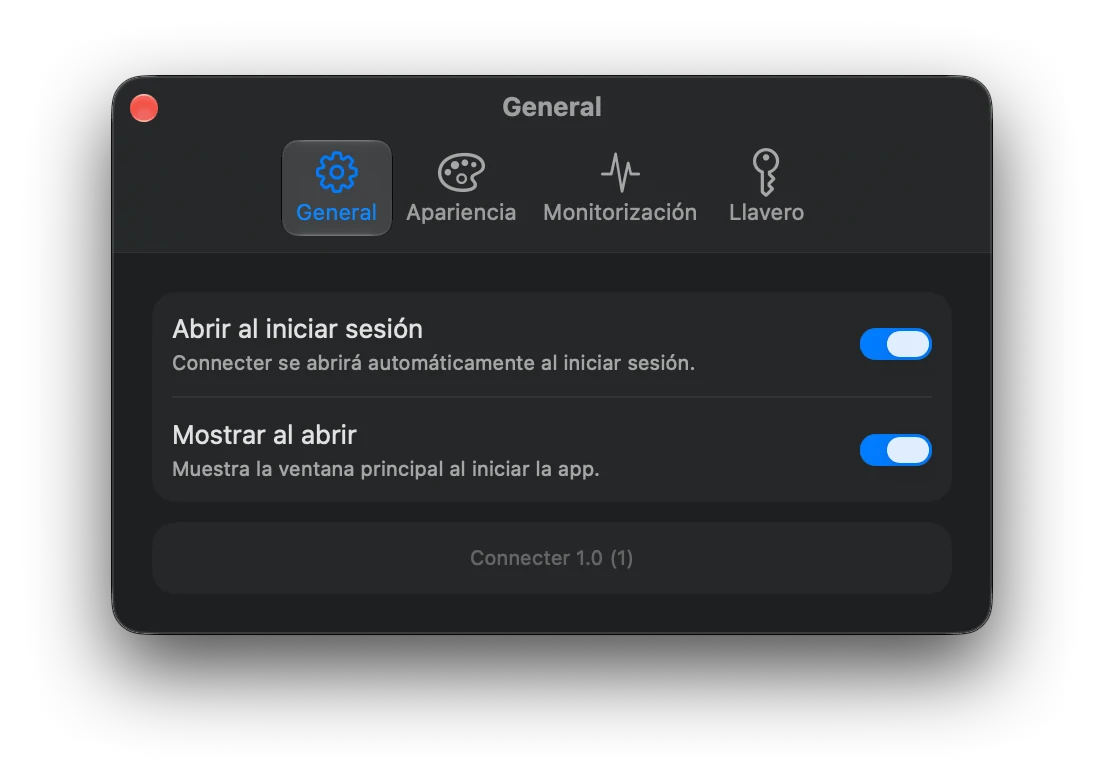
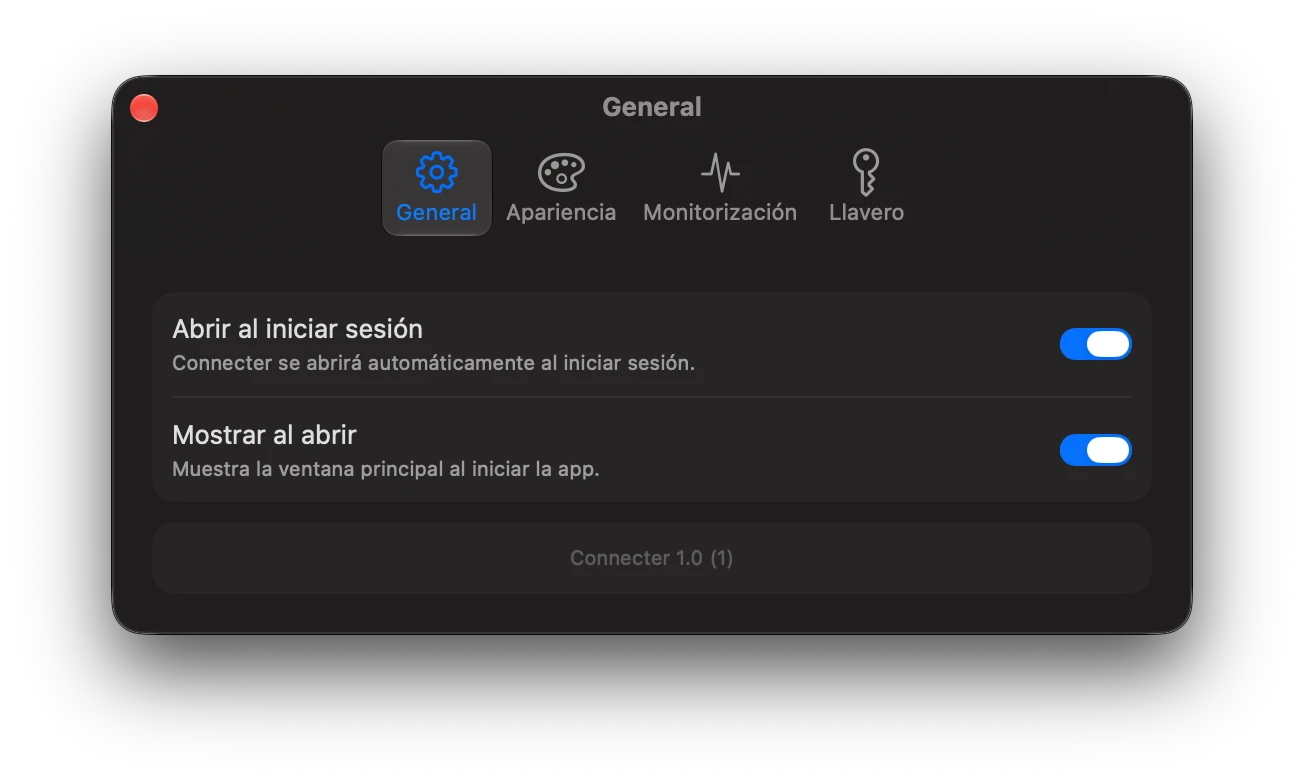
Connecter: capturas nuevas en claro y oscuro, en inglés y en español, y los ocho idiomas
- Capturas con datos inventados del nuevo diseño (agrupación por servidor,
  ajustes más anchos) en las dos páginas; la inglesa tiene las suyas.
- Selector Sistema · Claro · Oscuro que cambia todas las capturas; Sistema
  sigue el tema del navegador y la elección se recuerda.
- «8 idiomas» junto al requisito de macOS y una pregunta en el FAQ.

diff --git a/connecter/es/index.html b/connecter/es/index.html
@@ -248,14 +248,15 @@
     .rw-copy { text-align: center; max-width: 34em; }
     .rw-copy h2 { font-size: clamp(30px, 4.6vw, 48px); letter-spacing: -.025em; line-height: 1.1; margin: 0 0 10px; }
     .rw-copy p { color: var(--muted); font-size: clamp(16px, 1.8vw, 19px); margin: 0; }
-    .rw-frame { position: relative; width: min(420px, 76vw, calc((100svh - 260px) * 552 / 783)); transform-origin: 50% 100%; will-change: transform; }
+    .rw-frame { position: relative; width: min(420px, 76vw, calc((100svh - 260px) * 552 / 687)); transform-origin: 50% 100%; will-change: transform; }
     .rw-frame > img:first-child { display: block; width: 100%; height: auto; }
     .rw-menu {
-      position: absolute; top: 6%; right: -40%; width: 46%; height: auto;
+      /* --mw: the menu's width in points; drawn at the window's scale (552 points wide), sticking out on the right */
+      position: absolute; top: 6%; right: calc(12% - var(--mw) / 552 * 100%); width: calc(var(--mw) / 552 * 100%); height: auto;
       border-radius: 13px; box-shadow: 0 24px 50px rgba(0, 0, 0, .35);
       will-change: transform;
     }
-    @media (max-width: 760px) { .rw-menu { right: -10%; top: 34%; width: 42%; } }
+    @media (max-width: 760px) { .rw-menu { right: -10%; top: 30%; width: calc(var(--mw) / 552 * 92%); } }
 
     /* ---------- Contenido ---------- */
     .section { padding: 88px 0; border-top: 1px solid var(--border); }
@@ -277,9 +278,17 @@
       display: grid; place-items: center;
       background: linear-gradient(135deg, var(--accent), var(--accent-2)); color: #fff; font-weight: 700; font-size: 14px;
     }
+    /* Light / dark screenshots; only with JavaScript, which swaps them */
+    .scheme { display: none; padding: 3px; gap: 2px; border: 1px solid var(--border); border-radius: 999px; background: var(--surface); }
+    .js .scheme { display: inline-flex; }
+    .rw-copy .scheme { margin-top: 18px; }
+    .section .scheme { margin: -16px 0 32px; }
+    .scheme button { font: inherit; font-size: 14px; color: var(--muted); background: none; border: 0; border-radius: 999px; padding: 6px 14px; cursor: pointer; }
+    .scheme button[aria-checked="true"] { background: var(--accent); color: #fff; }
+    .scheme button:focus-visible { outline: 2px solid var(--accent); outline-offset: 2px; }
     .shots { display: grid; grid-template-columns: repeat(2, 1fr); gap: 28px 32px; align-items: center; }
     .shots figure { margin: 0; min-width: 0; }
-    .shots .wide { grid-column: 1 / -1; max-width: 560px; margin: 0 auto; }
+    .shots .wide { grid-column: 1 / -1; max-width: 660px; margin: 0 auto; }
     .shots img { display: block; width: 100%; height: auto; }
     .shots figcaption { color: var(--muted); font-size: 15px; margin-top: 4px; text-align: center; padding: 0 8px; }
     @media (max-width: 760px) { .shots { grid-template-columns: 1fr; max-width: 480px; margin: 0 auto; } }
@@ -360,7 +369,7 @@
         <span class="btn btn-primary">Próximamente en el Mac App Store</span>
         <a class="btn btn-ghost" href="#features">Ver funciones</a>
       </div>
-      <p class="req">Requiere macOS 26 Tahoe o posterior</p>
+      <p class="req">Requiere macOS 26 Tahoe o posterior · 8 idiomas</p>
     </div>
 
     <div class="stage" id="stage" role="img" aria-label="Animación: Connecter monta el recurso «video» desde la barra de menús y macOS lo muestra en el escritorio.">
@@ -417,11 +426,12 @@
     <div class="sticky">
       <div class="rw-copy" id="rwCopy">
         <h2>Todos tus recursos, de un vistazo.</h2>
-        <p>Una ventana compacta te dice qué está montado y qué no. Un interruptor activa o desactiva cada recurso.</p>
+        <p>Una ventana compacta, agrupada por servidor, te dice qué está montado y qué no. Un interruptor activa o desactiva cada recurso, y puedes pausar un servidor entero.</p>
+        <div class="scheme" role="radiogroup" aria-label="Apariencia de la app en las capturas"><button type="button" role="radio" data-mode="system" aria-checked="true">Sistema</button><button type="button" role="radio" data-mode="light" aria-checked="false">Claro</button><button type="button" role="radio" data-mode="dark" aria-checked="false">Oscuro</button></div>
       </div>
       <div class="rw-frame" id="rwFrame">
-        <img src="../img/ventana.webp" width="552" height="783" alt="Ventana principal de Connecter con nueve recursos SMB, dos de ellos montados">
-        <img class="rw-menu" id="rwMenu" src="../img/menu.webp" width="186" height="334" alt="Menú de Connecter en la barra de menús: 2 de 2 montados, con un punto verde junto a cada recurso montado">
+        <img src="../img/ventana.webp" width="552" height="687" alt="Ventana principal de Connecter con ocho recursos SMB agrupados por servidor: tres montados, dos en un servidor no disponible y uno en un servidor en pausa" data-scheme>
+        <img class="rw-menu" id="rwMenu" src="../img/menu.webp" width="330" height="471" style="--mw: 330" alt="Menú de Connecter en la barra de menús: 3 de 5 montados, una sección por servidor y un punto verde junto a cada recurso montado" data-scheme>
       </div>
     </div>
   </section>
@@ -443,17 +453,18 @@
     <section class="section" id="screenshots">
       <h2 class="rv">Así se ve en tu Mac.</h2>
       <p class="lead rv">Nativa de macOS Tahoe. Todo se ajusta desde una ventana de ajustes sencilla.</p>
+      <div class="scheme" role="radiogroup" aria-label="Apariencia de la app en las capturas"><button type="button" role="radio" data-mode="system" aria-checked="true">Sistema</button><button type="button" role="radio" data-mode="light" aria-checked="false">Claro</button><button type="button" role="radio" data-mode="dark" aria-checked="false">Oscuro</button></div>
       <div class="shots">
         <figure class="rv" style="--i:0">
-          <img src="../img/ajustes-general.webp" width="552" height="391" loading="lazy" alt="Ajustes generales: abrir al iniciar sesión y mostrar al abrir">
+          <img src="../img/ajustes-general.webp" width="652" height="391" loading="lazy" alt="Ajustes generales: abrir al iniciar sesión y mostrar al abrir" data-scheme>
           <figcaption>Se abre sola al iniciar sesión y puede quedarse solo en la barra de menús.</figcaption>
         </figure>
         <figure class="rv" style="--i:1">
-          <img src="../img/ajustes-monitorizacion.webp" width="552" height="415" loading="lazy" alt="Ajustes de monitorización: intervalo de comprobación, desactivación tras fallos y notificaciones">
+          <img src="../img/ajustes-monitorizacion.webp" width="652" height="382" loading="lazy" alt="Ajustes de monitorización: intervalo de comprobación, desactivación tras fallos y notificaciones" data-scheme>
           <figcaption>Tú decides cada cuánto comprueba, cuándo desiste y si te avisa.</figcaption>
         </figure>
         <figure class="wide rv">
-          <img src="../img/llavero.webp" width="552" height="581" loading="lazy" alt="Ajustes del Llavero: lista de recursos guardados en el llavero de macOS">
+          <img src="../img/llavero.webp" width="652" height="568" loading="lazy" alt="Ajustes del Llavero: lista de recursos guardados en el llavero de macOS" data-scheme>
           <figcaption>Cada recurso queda guardado en el Llavero, así que puedes reconstruir la lista si la pierdes.</figcaption>
         </figure>
       </div>
@@ -490,6 +501,7 @@
       <p class="lead rv">Lo que suele preguntarse antes de instalarla.</p>
       <details class="rv"><summary>¿Qué tipo de carpetas compartidas admite?</summary><p>Carpetas compartidas por SMB, el protocolo que usan la mayoría de NAS (Synology, QNAP…), servidores Windows y otros Mac.</p></details>
       <details class="rv"><summary>¿Qué versión de macOS necesito?</summary><p>macOS 26 Tahoe o posterior.</p></details>
+      <details class="rv"><summary>¿En qué idiomas está?</summary><p>Español, inglés, alemán, francés, italiano, portugués de Brasil, japonés y chino simplificado. Connecter usa el idioma de tu Mac.</p></details>
       <details class="rv"><summary>¿Qué pasa si cierro la tapa o cambio de Wi‑Fi?</summary><p>Al despertar el Mac o al detectar un cambio de red, Connecter vuelve a montar tus carpetas automáticamente. Si no hay conexión, pausa los intentos hasta que vuelva.</p></details>
       <details class="rv"><summary>¿Dónde se guardan mis contraseñas?</summary><p>Únicamente en el Llavero de macOS, el mismo sistema que usa el propio sistema operativo para tus contraseñas.</p></details>
       <details class="rv"><summary>¿Cuándo estará disponible?</summary><p>Connecter llegará próximamente al Mac App Store. Esta página se actualizará con el enlace de descarga.</p></details>
@@ -615,6 +627,26 @@
       if (!ticking) { ticking = true; requestAnimationFrame(() => { onScroll(); ticking = false; }); }
     }, { passive: true });
     addEventListener('resize', () => { fit(); onScroll(); });
+    // Screenshots in light or dark: "System" follows the visitor's appearance; the dark
+    // image is in the markup and the light one sits next to it as <name>-light.webp
+    const shots = [...document.querySelectorAll('img[data-scheme]')];
+    shots.forEach((i) => { i.dataset.dark = i.getAttribute('src'); });
+    const sysDark = matchMedia('(prefers-color-scheme: dark)');
+    let scheme = 'system';
+    try { scheme = localStorage.getItem('connecter-scheme') || 'system'; } catch (e) {}
+    const applyScheme = () => {
+      const dark = scheme === 'dark' || (scheme === 'system' && sysDark.matches);
+      shots.forEach((i) => { i.src = dark ? i.dataset.dark : i.dataset.dark.replace('.webp', '-light.webp'); });
+      document.querySelectorAll('.scheme button').forEach((b) => b.setAttribute('aria-checked', String(b.dataset.mode === scheme)));
+    };
+    document.querySelectorAll('.scheme button').forEach((b) => b.addEventListener('click', () => {
+      scheme = b.dataset.mode;
+      try { localStorage.setItem('connecter-scheme', scheme); } catch (e) {}
+      applyScheme();
+    }));
+    sysDark.addEventListener('change', applyScheme);
+    applyScheme();
+
     fit(); placeMenu(); onScroll();
     if (reduce) finalState(); else loop();
   })();

diff --git a/connecter/index.html b/connecter/index.html
@@ -248,14 +248,15 @@
     .rw-copy { text-align: center; max-width: 34em; }
     .rw-copy h2 { font-size: clamp(30px, 4.6vw, 48px); letter-spacing: -.025em; line-height: 1.1; margin: 0 0 10px; }
     .rw-copy p { color: var(--muted); font-size: clamp(16px, 1.8vw, 19px); margin: 0; }
-    .rw-frame { position: relative; width: min(420px, 76vw, calc((100svh - 260px) * 552 / 783)); transform-origin: 50% 100%; will-change: transform; }
+    .rw-frame { position: relative; width: min(420px, 76vw, calc((100svh - 260px) * 552 / 687)); transform-origin: 50% 100%; will-change: transform; }
     .rw-frame > img:first-child { display: block; width: 100%; height: auto; }
     .rw-menu {
-      position: absolute; top: 6%; right: -40%; width: 46%; height: auto;
+      /* --mw: the menu's width in points; drawn at the window's scale (552 points wide), sticking out on the right */
+      position: absolute; top: 6%; right: calc(12% - var(--mw) / 552 * 100%); width: calc(var(--mw) / 552 * 100%); height: auto;
       border-radius: 13px; box-shadow: 0 24px 50px rgba(0, 0, 0, .35);
       will-change: transform;
     }
-    @media (max-width: 760px) { .rw-menu { right: -10%; top: 34%; width: 42%; } }
+    @media (max-width: 760px) { .rw-menu { right: -10%; top: 30%; width: calc(var(--mw) / 552 * 92%); } }
 
     /* ---------- Contenido ---------- */
     .section { padding: 88px 0; border-top: 1px solid var(--border); }
@@ -277,9 +278,17 @@
       display: grid; place-items: center;
       background: linear-gradient(135deg, var(--accent), var(--accent-2)); color: #fff; font-weight: 700; font-size: 14px;
     }
+    /* Light / dark screenshots; only with JavaScript, which swaps them */
+    .scheme { display: none; padding: 3px; gap: 2px; border: 1px solid var(--border); border-radius: 999px; background: var(--surface); }
+    .js .scheme { display: inline-flex; }
+    .rw-copy .scheme { margin-top: 18px; }
+    .section .scheme { margin: -16px 0 32px; }
+    .scheme button { font: inherit; font-size: 14px; color: var(--muted); background: none; border: 0; border-radius: 999px; padding: 6px 14px; cursor: pointer; }
+    .scheme button[aria-checked="true"] { background: var(--accent); color: #fff; }
+    .scheme button:focus-visible { outline: 2px solid var(--accent); outline-offset: 2px; }
     .shots { display: grid; grid-template-columns: repeat(2, 1fr); gap: 28px 32px; align-items: center; }
     .shots figure { margin: 0; min-width: 0; }
-    .shots .wide { grid-column: 1 / -1; max-width: 560px; margin: 0 auto; }
+    .shots .wide { grid-column: 1 / -1; max-width: 660px; margin: 0 auto; }
     .shots img { display: block; width: 100%; height: auto; }
     .shots figcaption { color: var(--muted); font-size: 15px; margin-top: 4px; text-align: center; padding: 0 8px; }
     @media (max-width: 760px) { .shots { grid-template-columns: 1fr; max-width: 480px; margin: 0 auto; } }
@@ -360,7 +369,7 @@
         <span class="btn btn-primary">Coming soon to the Mac App Store</span>
         <a class="btn btn-ghost" href="#features">See features</a>
       </div>
-      <p class="req">Requires macOS 26 Tahoe or later</p>
+      <p class="req">Requires macOS 26 Tahoe or later · 8 languages</p>
     </div>
 
     <div class="stage" id="stage" role="img" aria-label="Animation: Connecter mounts the “video” share from the menu bar and macOS shows it on the desktop.">
@@ -417,11 +426,12 @@
     <div class="sticky">
       <div class="rw-copy" id="rwCopy">
         <h2>Every share, at a glance.</h2>
-        <p>One compact window shows what is mounted and what is not. One switch turns each share on or off.</p>
+        <p>One compact window, grouped by server, shows what is mounted and what is not. One switch turns each share on or off, and you can pause a whole server.</p>
+        <div class="scheme" role="radiogroup" aria-label="App appearance in the screenshots"><button type="button" role="radio" data-mode="system" aria-checked="true">System</button><button type="button" role="radio" data-mode="light" aria-checked="false">Light</button><button type="button" role="radio" data-mode="dark" aria-checked="false">Dark</button></div>
       </div>
       <div class="rw-frame" id="rwFrame">
-        <img src="img/ventana.webp" width="552" height="783" alt="Connecter main window with nine SMB shares, two of them mounted">
-        <img class="rw-menu" id="rwMenu" src="img/menu.webp" width="186" height="334" alt="Connecter menu in the menu bar: 2 of 2 mounted, with a green dot next to each mounted share">
+        <img src="img/window.webp" width="552" height="687" alt="Connecter main window with eight SMB shares grouped by server: three mounted, two on an unreachable server and one on a paused server" data-scheme>
+        <img class="rw-menu" id="rwMenu" src="img/menu-en.webp" width="304" height="471" style="--mw: 304" alt="Connecter menu in the menu bar: 3 of 5 mounted, one section per server and a green dot next to each mounted share" data-scheme>
       </div>
     </div>
   </section>
@@ -443,17 +453,18 @@
     <section class="section" id="screenshots">
       <h2 class="rv">Right at home on your Mac.</h2>
       <p class="lead rv">Native to macOS Tahoe. Everything is configured from one simple settings window.</p>
+      <div class="scheme" role="radiogroup" aria-label="App appearance in the screenshots"><button type="button" role="radio" data-mode="system" aria-checked="true">System</button><button type="button" role="radio" data-mode="light" aria-checked="false">Light</button><button type="button" role="radio" data-mode="dark" aria-checked="false">Dark</button></div>
       <div class="shots">
         <figure class="rv" style="--i:0">
-          <img src="img/ajustes-general.webp" width="552" height="391" loading="lazy" alt="General settings: launch at login and show on launch">
+          <img src="img/settings-general.webp" width="652" height="391" loading="lazy" alt="General settings: launch at login and show on launch" data-scheme>
           <figcaption>It starts at login and can stay out of the way in the menu bar.</figcaption>
         </figure>
         <figure class="rv" style="--i:1">
-          <img src="img/ajustes-monitorizacion.webp" width="552" height="415" loading="lazy" alt="Monitoring settings: check interval, disable after failures, and notifications">
+          <img src="img/settings-monitoring.webp" width="652" height="382" loading="lazy" alt="Monitoring settings: check interval, disable after failures, and notifications" data-scheme>
           <figcaption>You decide how often it checks, when it gives up and whether it notifies you.</figcaption>
         </figure>
         <figure class="wide rv">
-          <img src="img/llavero.webp" width="552" height="581" loading="lazy" alt="Keychain settings: list of shares saved in the macOS Keychain">
+          <img src="img/keychain.webp" width="652" height="568" loading="lazy" alt="Keychain settings: list of shares saved in the macOS Keychain" data-scheme>
           <figcaption>Every share is backed up in the Keychain, so you can rebuild the list if you ever lose it.</figcaption>
         </figure>
       </div>
@@ -490,6 +501,7 @@
       <p class="lead rv">What people usually ask before installing it.</p>
       <details class="rv"><summary>What kind of shares does it support?</summary><p>Shares over SMB, the protocol used by most NAS devices (Synology, QNAP…), Windows servers and other Macs.</p></details>
       <details class="rv"><summary>Which version of macOS do I need?</summary><p>macOS 26 Tahoe or later.</p></details>
+      <details class="rv"><summary>Which languages is it available in?</summary><p>English, Spanish, German, French, Italian, Brazilian Portuguese, Japanese and Simplified Chinese. Connecter uses your Mac’s language.</p></details>
       <details class="rv"><summary>What happens if I close the lid or switch Wi‑Fi networks?</summary><p>When your Mac wakes up or the network changes, Connecter mounts your shares again automatically. If there’s no connection, it pauses until the network comes back.</p></details>
       <details class="rv"><summary>Where are my passwords stored?</summary><p>Only in the macOS Keychain, the same system macOS itself uses for your passwords.</p></details>
       <details class="rv"><summary>When will it be available?</summary><p>Connecter is coming soon to the Mac App Store. This page will be updated with the download link.</p></details>
@@ -615,6 +627,26 @@
       if (!ticking) { ticking = true; requestAnimationFrame(() => { onScroll(); ticking = false; }); }
     }, { passive: true });
     addEventListener('resize', () => { fit(); onScroll(); });
+    // Screenshots in light or dark: "System" follows the visitor's appearance; the dark
+    // image is in the markup and the light one sits next to it as <name>-light.webp
+    const shots = [...document.querySelectorAll('img[data-scheme]')];
+    shots.forEach((i) => { i.dataset.dark = i.getAttribute('src'); });
+    const sysDark = matchMedia('(prefers-color-scheme: dark)');
+    let scheme = 'system';
+    try { scheme = localStorage.getItem('connecter-scheme') || 'system'; } catch (e) {}
+    const applyScheme = () => {
+      const dark = scheme === 'dark' || (scheme === 'system' && sysDark.matches);
+      shots.forEach((i) => { i.src = dark ? i.dataset.dark : i.dataset.dark.replace('.webp', '-light.webp'); });
+      document.querySelectorAll('.scheme button').forEach((b) => b.setAttribute('aria-checked', String(b.dataset.mode === scheme)));
+    };
+    document.querySelectorAll('.scheme button').forEach((b) => b.addEventListener('click', () => {
+      scheme = b.dataset.mode;
+      try { localStorage.setItem('connecter-scheme', scheme); } catch (e) {}
+      applyScheme();
+    }));
+    sysDark.addEventListener('change', applyScheme);
+    applyScheme();
+
     fit(); placeMenu(); onScroll();
     if (reduce) finalState(); else loop();
   })();

diff --git a/tools/connecter/template.html b/tools/connecter/template.html
@@ -248,14 +248,15 @@
     .rw-copy { text-align: center; max-width: 34em; }
     .rw-copy h2 { font-size: clamp(30px, 4.6vw, 48px); letter-spacing: -.025em; line-height: 1.1; margin: 0 0 10px; }
     .rw-copy p { color: var(--muted); font-size: clamp(16px, 1.8vw, 19px); margin: 0; }
-    .rw-frame { position: relative; width: min(420px, 76vw, calc((100svh - 260px) * 552 / 783)); transform-origin: 50% 100%; will-change: transform; }
+    .rw-frame { position: relative; width: min(420px, 76vw, calc((100svh - 260px) * 552 / 687)); transform-origin: 50% 100%; will-change: transform; }
     .rw-frame > img:first-child { display: block; width: 100%; height: auto; }
     .rw-menu {
-      position: absolute; top: 6%; right: -40%; width: 46%; height: auto;
+      /* --mw: the menu's width in points; drawn at the window's scale (552 points wide), sticking out on the right */
+      position: absolute; top: 6%; right: calc(12% - var(--mw) / 552 * 100%); width: calc(var(--mw) / 552 * 100%); height: auto;
       border-radius: 13px; box-shadow: 0 24px 50px rgba(0, 0, 0, .35);
       will-change: transform;
     }
-    @media (max-width: 760px) { .rw-menu { right: -10%; top: 34%; width: 42%; } }
+    @media (max-width: 760px) { .rw-menu { right: -10%; top: 30%; width: calc(var(--mw) / 552 * 92%); } }
 
     /* ---------- Contenido ---------- */
     .section { padding: 88px 0; border-top: 1px solid var(--border); }
@@ -277,9 +278,17 @@
       display: grid; place-items: center;
       background: linear-gradient(135deg, var(--accent), var(--accent-2)); color: #fff; font-weight: 700; font-size: 14px;
     }
+    /* Light / dark screenshots; only with JavaScript, which swaps them */
+    .scheme { display: none; padding: 3px; gap: 2px; border: 1px solid var(--border); border-radius: 999px; background: var(--surface); }
+    .js .scheme { display: inline-flex; }
+    .rw-copy .scheme { margin-top: 18px; }
+    .section .scheme { margin: -16px 0 32px; }
+    .scheme button { font: inherit; font-size: 14px; color: var(--muted); background: none; border: 0; border-radius: 999px; padding: 6px 14px; cursor: pointer; }
+    .scheme button[aria-checked="true"] { background: var(--accent); color: #fff; }
+    .scheme button:focus-visible { outline: 2px solid var(--accent); outline-offset: 2px; }
     .shots { display: grid; grid-template-columns: repeat(2, 1fr); gap: 28px 32px; align-items: center; }
     .shots figure { margin: 0; min-width: 0; }
-    .shots .wide { grid-column: 1 / -1; max-width: 560px; margin: 0 auto; }
+    .shots .wide { grid-column: 1 / -1; max-width: 660px; margin: 0 auto; }
     .shots img { display: block; width: 100%; height: auto; }
     .shots figcaption { color: var(--muted); font-size: 15px; margin-top: 4px; text-align: center; padding: 0 8px; }
     @media (max-width: 760px) { .shots { grid-template-columns: 1fr; max-width: 480px; margin: 0 auto; } }
@@ -418,10 +427,11 @@
       <div class="rw-copy" id="rwCopy">
         <h2>{{win_h2}}</h2>
         <p>{{win_p}}</p>
+        {{scheme}}
       </div>
       <div class="rw-frame" id="rwFrame">
-        <img src="{{root}}img/ventana.webp" width="552" height="783" alt="{{win_alt}}">
-        <img class="rw-menu" id="rwMenu" src="{{root}}img/menu.webp" width="186" height="334" alt="{{menu_alt}}">
+        <img src="{{root}}img/{{img_win}}.webp" width="552" height="687" alt="{{win_alt}}" data-scheme>
+        <img class="rw-menu" id="rwMenu" src="{{root}}img/{{img_menu}}.webp" width="{{menu_w}}" height="471" style="--mw: {{menu_w}}" alt="{{menu_alt}}" data-scheme>
       </div>
     </div>
   </section>
@@ -443,17 +453,18 @@
     <section class="section" id="screenshots">
       <h2 class="rv">{{shots_h2}}</h2>
       <p class="lead rv">{{shots_lead}}</p>
+      {{scheme}}
       <div class="shots">
         <figure class="rv" style="--i:0">
-          <img src="{{root}}img/ajustes-general.webp" width="552" height="391" loading="lazy" alt="{{s_gen_alt}}">
+          <img src="{{root}}img/{{img_gen}}.webp" width="652" height="391" loading="lazy" alt="{{s_gen_alt}}" data-scheme>
           <figcaption>{{s_gen_cap}}</figcaption>
         </figure>
         <figure class="rv" style="--i:1">
-          <img src="{{root}}img/ajustes-monitorizacion.webp" width="552" height="415" loading="lazy" alt="{{s_mon_alt}}">
+          <img src="{{root}}img/{{img_mon}}.webp" width="652" height="382" loading="lazy" alt="{{s_mon_alt}}" data-scheme>
           <figcaption>{{s_mon_cap}}</figcaption>
         </figure>
         <figure class="wide rv">
-          <img src="{{root}}img/llavero.webp" width="552" height="581" loading="lazy" alt="{{s_key_alt}}">
+          <img src="{{root}}img/{{img_key}}.webp" width="652" height="568" loading="lazy" alt="{{s_key_alt}}" data-scheme>
           <figcaption>{{s_key_cap}}</figcaption>
         </figure>
       </div>
@@ -490,6 +501,7 @@
       <p class="lead rv">{{faq_lead}}</p>
       <details class="rv"><summary>{{q1}}</summary><p>{{a1}}</p></details>
       <details class="rv"><summary>{{q2}}</summary><p>{{a2}}</p></details>
+      <details class="rv"><summary>{{q_lang}}</summary><p>{{a_lang}}</p></details>
       <details class="rv"><summary>{{q3}}</summary><p>{{a3}}</p></details>
       <details class="rv"><summary>{{q4}}</summary><p>{{a4}}</p></details>
       <details class="rv"><summary>{{q5}}</summary><p>{{a5}}</p></details>
@@ -615,6 +627,26 @@
       if (!ticking) { ticking = true; requestAnimationFrame(() => { onScroll(); ticking = false; }); }
     }, { passive: true });
     addEventListener('resize', () => { fit(); onScroll(); });
+    // Screenshots in light or dark: "System" follows the visitor's appearance; the dark
+    // image is in the markup and the light one sits next to it as <name>-light.webp
+    const shots = [...document.querySelectorAll('img[data-scheme]')];
+    shots.forEach((i) => { i.dataset.dark = i.getAttribute('src'); });
+    const sysDark = matchMedia('(prefers-color-scheme: dark)');
+    let scheme = 'system';
+    try { scheme = localStorage.getItem('connecter-scheme') || 'system'; } catch (e) {}
+    const applyScheme = () => {
+      const dark = scheme === 'dark' || (scheme === 'system' && sysDark.matches);
+      shots.forEach((i) => { i.src = dark ? i.dataset.dark : i.dataset.dark.replace('.webp', '-light.webp'); });
+      document.querySelectorAll('.scheme button').forEach((b) => b.setAttribute('aria-checked', String(b.dataset.mode === scheme)));
+    };
+    document.querySelectorAll('.scheme button').forEach((b) => b.addEventListener('click', () => {
+      scheme = b.dataset.mode;
+      try { localStorage.setItem('connecter-scheme', scheme); } catch (e) {}
+      applyScheme();
+    }));
+    sysDark.addEventListener('change', applyScheme);
+    applyScheme();
+
     fit(); placeMenu(); onScroll();
     if (reduce) finalState(); else loop();
   })();
